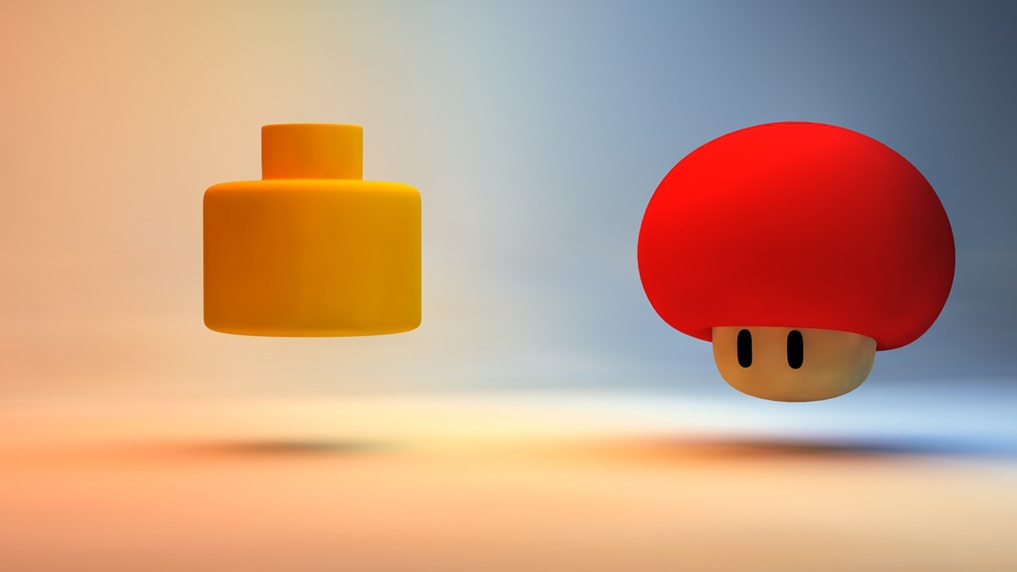
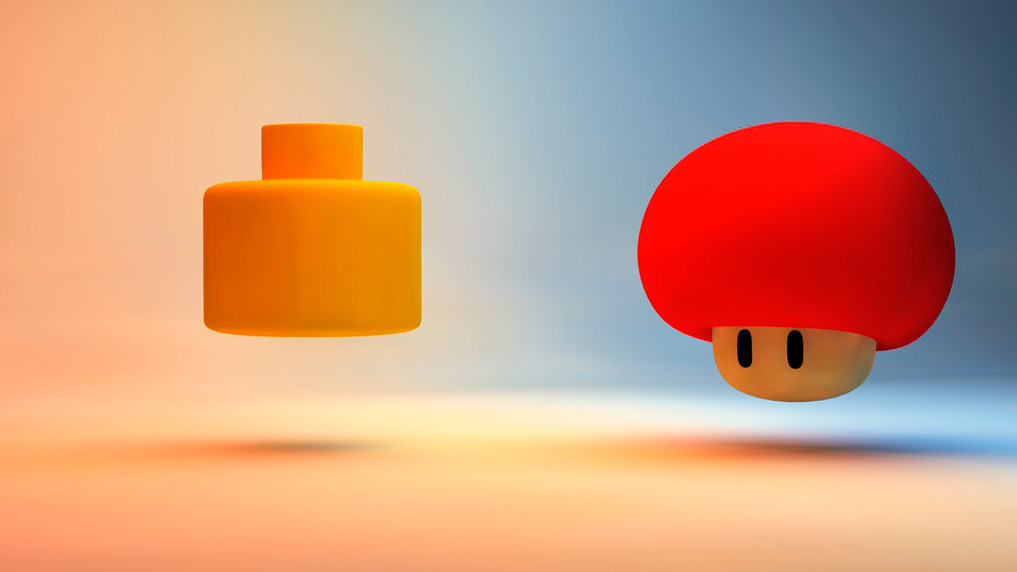
resize and optimize

diff --git a/web.htm b/web.htm
@@ -38,6 +38,7 @@
 		<nav role="navigation">
 
 						<ul id="navmenu">
+	<li><a href="./index.html"   class="nav-home current" data-canxfilter=""><i class="menu-icon icon-etch"></i></a></li>
  <li><a href="./design.htm"><i class="menu-icon icon-studio"></i><span>Design</span></a></li>
     <li><a href="./flash.htm"><i class="menu-icon icon-team"></i><span>Flash</span></a></li>
     <li><a href="./3d.htm"><i class="menu-icon2 icon-3d"></i><span>3d</span></a></li>
@@ -55,7 +56,7 @@
 
         <div id="logo-block" class="block-wrap ignore-shuffle" data-rowspan="1" data-colspan="1">
             <div class="block image">
-                <img class="resize" src="./img/base/logoWeb.png"   rel="./img/base/logoWeb.png" alt="Artlogo" title="Art" />
+                <img class="resize" src="./img/base/logoWeb.jpg"   rel="./img/base/logoWeb.png" alt="Artlogo" title="Art" />
               
             </div>
         </div>
@@ -63,8 +64,8 @@
         <header id="intro" class="block-wrap ignore-shuffle" data-rowspan="2" data-colspan="2">
             <hgroup class="block text-only">
                 <h1>Design portfolio</h1>
-                <h2>My the favourite passion it's <em>Web development</em>. I really like to improve this skill. 
-				I have very good experience in <em>HTML5</em> and <em>CSS3</em> coding. JS, PHP, Python
+                <h2>My the favourite passion it's <em>Web</em> development. I really like to improve this skill. 
+				I have very good experience in <em>HTML5</em> and <em>CSS3</em> coding. Also I'm use <em>JS</em>, <em>PHP</em>, <em>Python</em> and more frameworks. <em>CMSs</em>, <em>Toolkits</em> and soft-skills for development for <em>web</em>, <em>mobile</em> and <em>desktop</em> platforms.
 				</h2>
             </hgroup>
         </header>
@@ -154,7 +155,7 @@
                             <a class="link-block img_loaded"  target="_blank"  href="https://winz.io/">
                                 <img class="resize" src="./source/web/11.jpg" rel="./source/web/11.jpg" alt="winz.io" style="transition: all 0s ease; -webkit-transition: all 0s ease; opacity: 1;">
                             </a>
-                            <h3><a  target="_blank"  href="https://winz.io/">winz.io/</a></h3>
+                            <h3><a  target="_blank"  href="https://winz.io/">winz.io</a></h3>
                         </figure>
                     </header>
 					<header class="block-wrap" data-rowspan="1" data-colspan="1" style="position: absolute; width: 308.25px; height: 308.25px; top: 0px; left: 924.75px;">

diff --git a/3d.htm b/3d.htm
@@ -67,7 +67,7 @@
             <header id="intro" class="block-wrap ignore-shuffle" data-rowspan="2" data-colspan="2">
                 <hgroup class="block text-only">
                     <h1>My works on 3D-modelling and animation in 3D-editor Cinema 4D</h1>
-                    <h2>My works on <em>3D</em>-modelling and animation in 3D-editor <em>Cinema 4D</em> and post production Adobe <em> AfterEffects.</em> </h2 >
+                    <h2>My works on <em>3D</em>-modelling and animation in 3D-editor <em>Cinema 4D</em> and post production Adobe <em> AfterEffects.</em> And also I create <em>sound-backgrounds</em> for presentations and video clips in <em>FL Studio</em> and <em>Sony Vegas</em>.</h2 >
             </hgroup>
         </header> </section>
                 
@@ -201,12 +201,6 @@
         </div>
     </div>
 
-     
-        <div id='tridmx'>
-		   <div id="i-have-a-tooltip" data-description="Redshift enivornment, render, lights">
-            <img class="resize" src="./3d/underwater.jpg" rel="./3d/underwater.jpg" alt="underwater" style="transition: all 0s ease; -webkit-transition: all 0s ease; opacity: 1;">
-</div>
-        </div>
 
     </div>
                
@@ -221,7 +215,7 @@
 			
 					</nav>
 
-		<div class="jobs"><a href="https://rabota.by/resume/ded24bcdff016336ff0039ed1f555169707773" target="_blank"> <small>Companies</small></a></div>
+		<div class="jobs"><a href="https://www.youtube.com/@artyompaschenko3528" target="_blank"> <small>My Youtube channel</small></a></div>
 
 		<footer role="contentinfo">
 

diff --git a/design.htm b/design.htm
@@ -55,7 +55,7 @@
                 <h2>In this page you must see my design works: <em>web</em> sites, <em>moblie</em> site, mobile <em>applications</em>, blanks, and other vector/raster <em>graphics.</em> <br/> Which were <em>made by me</em> throughout all <em>my career as a designer</em> from <em>2008</em> to the present time.</h2>
             </hgroup>
         </header>
-        
+
         <header class="block-wrap" data-rowspan="1" data-colspan="1" style="position: absolute; width: 308.25px; height: 308.25px; top: 0px; left: 924.75px;">
             <figure class="block team-block" style="position: absolute; top: 10px; left: 10px; right: 10px; bottom: 10px; min-height: 0px;">
                 <a class="link-block img_loaded" target="_blank" href="http://usadbaonline.ru">
@@ -319,7 +319,7 @@
 			
 					</nav>
 
-		<div class="jobs"><a href="http://usadbaonline.ru/" target="_blank"> <small>Biggest site-portal</small></a></div>
+		<div class="jobs"> <small> <a href=""> Presentations: <a href="./source/presentations/Bravehr.pptx" target="_blank">1</a>, <a href="./source/presentations/Oguncad.pptx" target="_blank">2</a>,<a href="./source/presentations/Collagen.pdf" target="_blank">3</a></small></a></div>
 
 		<footer role="contentinfo">
 

diff --git a/css/3d.css b/css/3d.css
@@ -1918,13 +1918,13 @@ section {
 [role="navigation"]>ul span {
     position: absolute;
     right: 0;
-    top: 4px;
+    top: 0;
     opacity: 0;
     width: 6em;
     padding: 0 1em;
     height: 3em;
     display: none;
-    font-weight: 600;
+    font-weight: 600
 }
 .no-rgba [role="navigation"] {
     background: #2a2a2a

diff --git a/css/web.css b/css/web.css
@@ -1921,7 +1921,7 @@ section {
     top: 4px;
     opacity: 0;
     width: 6em;
-    padding: 0 1em;
+    padding: 0 8em;
     height: 3em;
     display: none;
     font-weight: 600;
